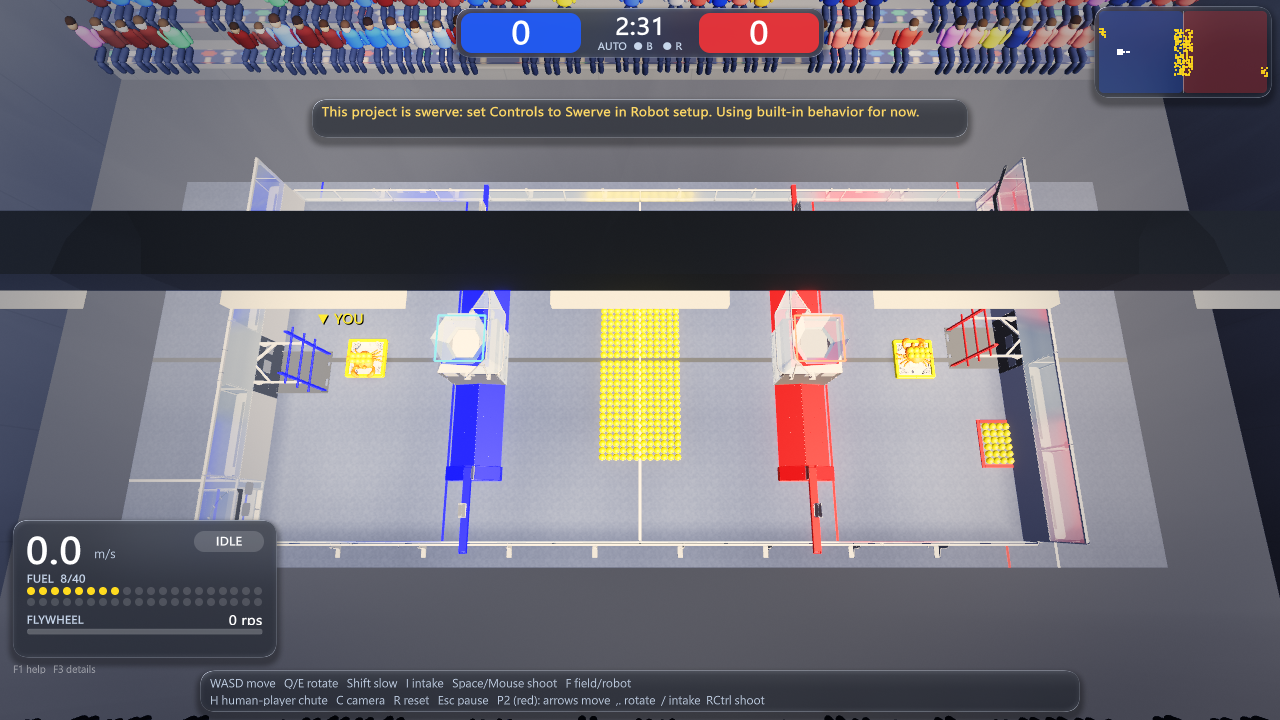
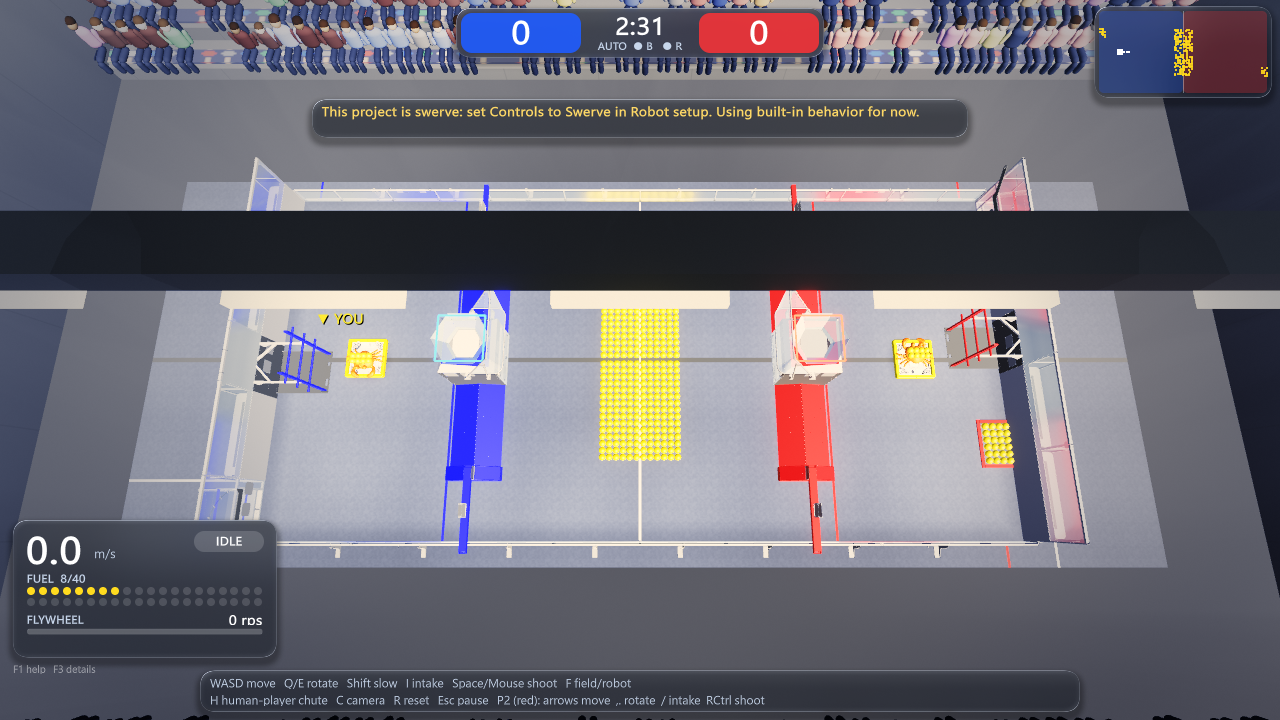
v0.5.51 muted crowd

diff --git a/Assets/Scripts/Sim/Crowd.cs b/Assets/Scripts/Sim/Crowd.cs
@@ -1,4 +1,4 @@
-using System.Collections.Generic;
+using System.Collections.Generic;
 using UnityEngine;
 
 namespace FrcSim
@@ -39,6 +39,8 @@ namespace FrcSim
         }
         static Mesh GetPrimitive(PrimitiveType t) { var g = GameObject.CreatePrimitive(t); var m = g.GetComponent<MeshFilter>().sharedMesh; Object.Destroy(g); return m; }
 
+        // 觀眾衣服降飽和、略暗:避免整片看台像彩虹糖,紅藍隊色依然辨得出來(高級感)
+        static Color Muted(Color c) { Color.RGBToHSV(c, out float h, out float sat, out float v); var r = Color.HSVToRGB(h, sat * 0.58f, v * 0.86f); r.a = c.a; return r; }
         public static void Build(Transform parent, float L, float W)
         {
             var sh = Resources.Load<Shader>("Shaders/FrcCrowd");
@@ -86,7 +88,7 @@ namespace FrcSim
                         else sc = neutral[rng.Next(neutral.Length)];
                         float scl = 0.92f + (float)rng.NextDouble() * 0.2f;
                         mList.Add(Matrix4x4.TRS(new Vector3(x + (float)(rng.NextDouble() - 0.5) * 0.08f, h + 0.05f, z), Quaternion.Euler(0f, yaw + (float)(rng.NextDouble() - 0.5) * 14f, 0f), Vector3.one * scl));
-                        shirt.Add(sc); skin.Add(skins[rng.Next(skins.Length)]); phase.Add((float)rng.NextDouble());
+                        shirt.Add(Muted(sc)); skin.Add(skins[rng.Next(skins.Length)]); phase.Add((float)rng.NextDouble());
                         if (mList.Count == 1000) Flush();
                     }
                 }
@@ -98,3 +100,4 @@ namespace FrcSim
         void Update() { Shader.SetGlobalFloat("_FrcExcite", Juice.Excitement); }
     }
 }
+

diff --git a/Assets/Scripts/Sim/UpdateCheck.cs b/Assets/Scripts/Sim/UpdateCheck.cs
@@ -17,7 +17,7 @@ namespace FrcSim
     //   找不到差異包(或失敗)時退回「開啟下載頁」,讓使用者手動下載完整版。
     public class UpdateCheck : MonoBehaviour
     {
-        public const string Current = "0.5.50";
+        public const string Current = "0.5.51";
         const string Repo = "frc9427liu-tech/FRC9427-SimApp";
         const string ReleasesApi = "https://api.github.com/repos/" + Repo + "/releases?per_page=30";
         public const string Page = "https://github.com/" + Repo + "/releases/latest";
@@ -235,6 +235,7 @@ Start-Process -FilePath $Exe -WorkingDirectory $Dst
 ";
     }
 }
+
 
 
 
